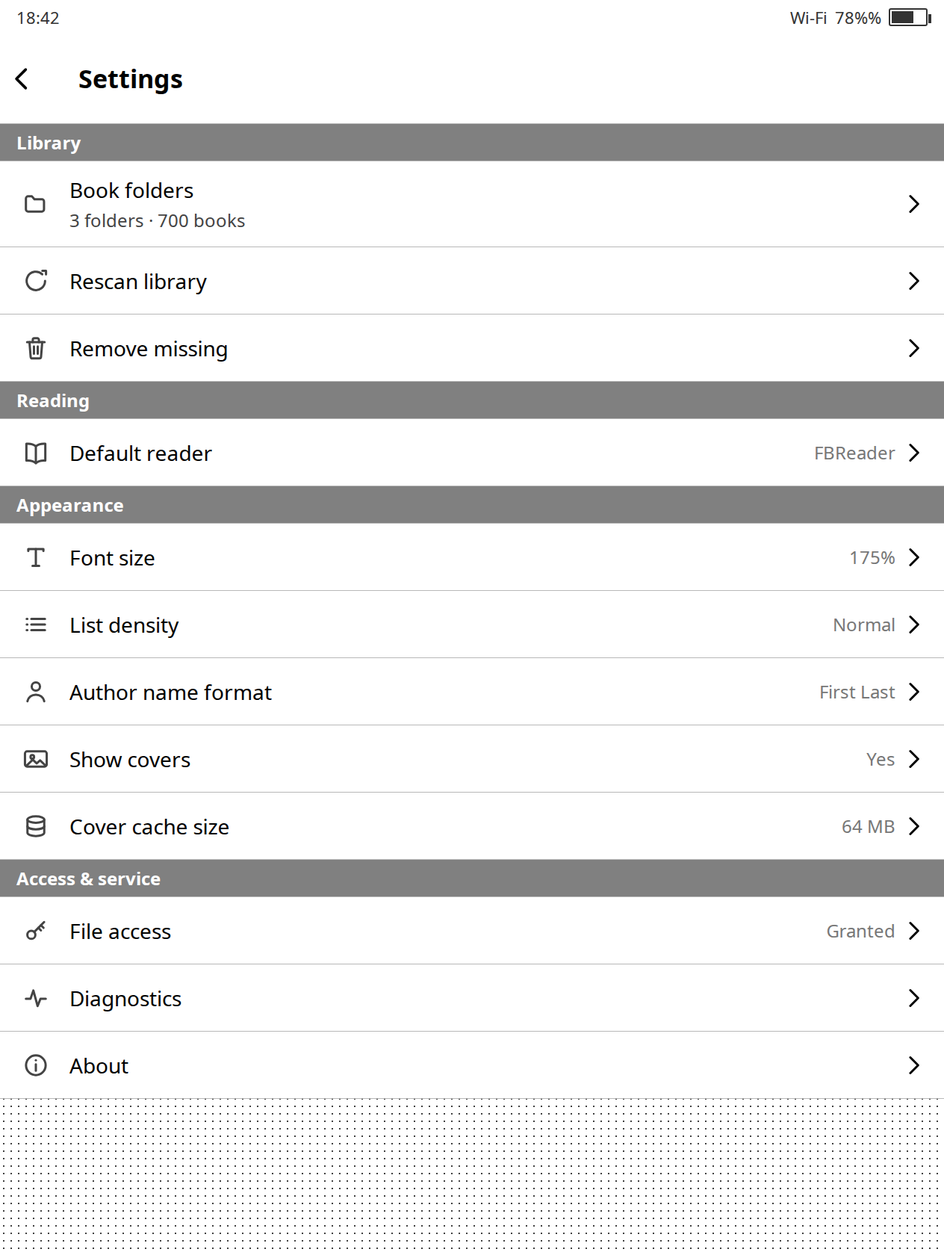
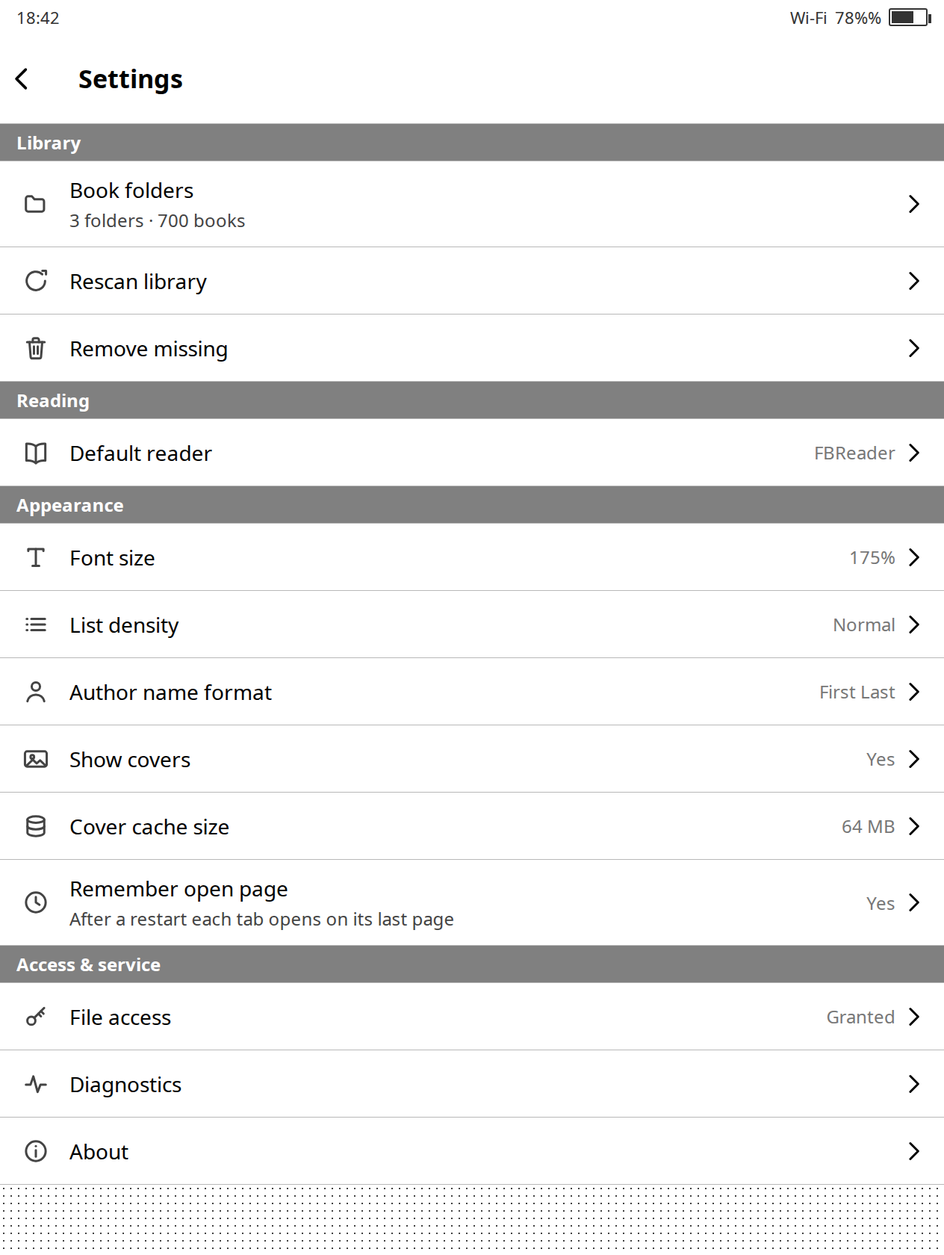
Настройки S4.8 «Запоминать открытую страницу»: страницы вкладок между перезапусками (бэклог №15)
- Prefs: K_REMEMBER_PAGE (по умолчанию Да), K_TAB_PAGES — CSV страниц по
  индексу вкладки; tabPage/setTabPage/clearTabPages
- MainActivity: onCreate читает сохранённые страницы (если опция включена) и
  открывает rememberedPage(mTab); setPage пишет страницу в Prefs при
  включённой опции; при выключенной — только память сессии (№14)
- SettingsActivity: строка в «Оформлении» (иконка history, sub-пояснение,
  значение Да/Нет) + диалог; выключение очищает K_TAB_PAGES
- нумерация строк S4 сдвинута: рескан S4.9, очистка S4.10, доступ S4.11,
  диагностика S4.12, «О программе» S4.13 (комментарии + PLAN.md)
- gen.py: строки setting_remember_page(_sub) RU/EN, макет 12 + sub в setting()
- PLAN.md §6.7: настройка распространяет память страницы на перезапуск
- Вкладка между перезапусками помнилась и раньше (Prefs.K_TAB) — проверено

Changed region(s): [[0.0, 0.681, 1.0, 0.9286], [0.9565, 0.8357, 0.9873, 0.8667]]

diff --git a/app/src/ru/unclerus/library/ui/SettingsActivity.java b/app/src/ru/unclerus/library/ui/SettingsActivity.java
@@ -44,9 +44,9 @@ import ru.unclerus.library.util.Prefs;
  *   <li>S4.1 «Папки с книгами» — открывает отдельный экран S9 ({@link RootsActivity});</li>
  *   <li>S4.2 читалка по умолчанию — список читалок ({@link OpenWithDialog});</li>
  *   <li>S4.3 размер шрифта, S4.4 плотность, S4.5 формат имени автора, S4.6 обложки,
- *       S4.7 размер кэша — мгновенные настройки;</li>
- *   <li>S4.8 рескан, S4.9 очистка отсутствующих, S4.10 доступ к файлам,
- *       S4.11 диагностика, S4.12 «О программе».</li>
+ *       S4.7 размер кэша, S4.8 запоминание открытой страницы — мгновенные настройки;</li>
+ *   <li>S4.9 рескан, S4.10 очистка отсутствующих, S4.11 доступ к файлам,
+ *       S4.12 диагностика, S4.13 «О программе».</li>
  * </ul>
  *
  * <p>Масштаб шрифта применяется базовым {@link ThemedActivity}: при смене экран
@@ -66,6 +66,7 @@ public final class SettingsActivity extends ThemedActivity {
     private static final int A_CACHE = 10;
     private static final int A_DIAGNOSTICS = 11;
     private static final int A_ABOUT = 12;
+    private static final int A_REMEMBER_PAGE = 13;
 
     private static final int REQ_STORAGE = 1;
     private static final int REQ_SAF_TREE = 2;
@@ -145,6 +146,10 @@ public final class SettingsActivity extends ThemedActivity {
         addRow(R.drawable.ic_database, getString(R.string.setting_cover_cache), null,
                 getString(R.string.value_mb, String.valueOf(App.prefs().coverCacheMb())),
                 A_CACHE);
+        addRow(R.drawable.ic_history, getString(R.string.setting_remember_page),
+                getString(R.string.setting_remember_page_sub),
+                getString(App.prefs().rememberPage() ? R.string.value_yes : R.string.value_no),
+                A_REMEMBER_PAGE);
 
         addSection(R.string.section_access_service);
         addRow(R.drawable.ic_key, getString(R.string.setting_file_access), null,
@@ -237,6 +242,9 @@ public final class SettingsActivity extends ThemedActivity {
             case A_CACHE:
                 showCacheDialog();
                 break;
+            case A_REMEMBER_PAGE:
+                showRememberPageDialog();
+                break;
             case A_ACCESS:
                 if (FileAccess.hasAllFiles(this)) {
                     Toast.makeText(this, R.string.access_granted, Toast.LENGTH_SHORT).show();
@@ -255,7 +263,7 @@ public final class SettingsActivity extends ThemedActivity {
         }
     }
 
-    /** S4.8: запустить общий рескан и вернуться в список — прогресс покажет S1. */
+    /** S4.9: запустить общий рескан и вернуться в список — прогресс покажет S1. */
     private void startScan() {
         startService(new Intent(this, IndexerService.class).setAction(IndexerService.ACTION_START));
         Toast.makeText(this, R.string.toast_scan_started, Toast.LENGTH_SHORT).show();
@@ -263,7 +271,7 @@ public final class SettingsActivity extends ThemedActivity {
     }
 
     /**
-     * S4.9 «Очистить отсутствующие» (D4): показать, что именно будет удалено,
+     * S4.10 «Очистить отсутствующие» (D4): показать, что именно будет удалено,
      * и по подтверждению удалить книги с пропавшими файлами и «сиротские»
      * классификаторы. Файлы на диске не трогаются.
      */
@@ -455,6 +463,33 @@ public final class SettingsActivity extends ThemedActivity {
                 }));
     }
 
+    /**
+     * S4.8: запоминать ли открытую страницу вкладок между перезапусками
+     * (BACKLOG №15). При выключении сохранённые страницы выбрасываются —
+     * память остаётся только в рамках текущей сессии (№14).
+     */
+    private void showRememberPageDialog() {
+        final String[] items = {
+                getString(R.string.value_yes),
+                getString(R.string.value_no),
+        };
+        int checked = App.prefs().rememberPage() ? 0 : 1;
+        Dialogs.show(new AlertDialog.Builder(this, R.style.AppTheme_Dialog)
+                .setTitle(R.string.setting_remember_page)
+                .setSingleChoiceItems(items, checked, new DialogInterface.OnClickListener() {
+                    @Override
+                    public void onClick(DialogInterface d, int which) {
+                        boolean on = which == 0;
+                        App.prefs().setRememberPage(on);
+                        if (!on) {
+                            App.prefs().clearTabPages();
+                        }
+                        d.dismiss();
+                        buildRows();
+                    }
+                }));
+    }
+
     /** S4.7: размер дискового кэша обложек; после смены LRU подрезается. */
     private void showCacheDialog() {
         final String[] items = new String[CACHE_MB.length];
@@ -527,7 +562,7 @@ public final class SettingsActivity extends ThemedActivity {
     }
 
     // ------------------------------------------------------------------
-    // Доступ к файлам (S4.10)
+    // Доступ к файлам (S4.11)
     // ------------------------------------------------------------------
 
     private boolean hasAllFiles() {
@@ -538,7 +573,7 @@ public final class SettingsActivity extends ThemedActivity {
         FileAccess.requestManage(this, REQ_STORAGE);
     }
 
-    /** D2 «Доступ к файлам» (тап по строке S4.10). */
+    /** D2 «Доступ к файлам» (тап по строке S4.11). */
     private void showAccessDialog() {
         AccessPrompt.show(this, new AccessPrompt.Actions() {
             @Override

diff --git a/app/src/ru/unclerus/library/util/Prefs.java b/app/src/ru/unclerus/library/util/Prefs.java
@@ -23,6 +23,10 @@ public final class Prefs {
     public static final String K_SCHEMA_SEEN = "schema_seen";      // int
     /** Последняя открытая вкладка главного экрана (S1); -1 — ещё не запоминалась. */
     public static final String K_TAB = "main_tab";                 // int
+    /** Запоминать открытую страницу вкладки между перезапусками (S4.8). */
+    public static final String K_REMEMBER_PAGE = "remember_page";  // boolean
+    /** Страницы вкладок S1 между запусками: CSV int по индексу вкладки (S4.8). */
+    public static final String K_TAB_PAGES = "main_tab_pages";     // String "3,1,5,..."
     // Контексты режима сортировки (значение — BookDao.SORT_*):
     public static final String K_SORT_BOOKS = "sort_all_books";    // S1.6 «Все книги»
     public static final String K_SORT_GENRE = "sort_genre";        // S2, книги жанра
@@ -158,5 +162,75 @@ public final class Prefs {
 
     public void setTab(int idx) {
         mSp.edit().putInt(K_TAB, idx).apply();
+    }
+
+    // --- страницы вкладок между перезапусками (S4.8) ---
+    /**
+     * Сохранять ли открытую страницу каждой вкладки между запусками (настройка
+     * S4.8). По умолчанию включено: позиция списка помнится и в рамках сессии
+     * (BACKLOG №14), и между перезапусками (№15); выключение оставляет память
+     * сессии и очищает сохранённые страницы.
+     */
+    public boolean rememberPage() {
+        return mSp.getBoolean(K_REMEMBER_PAGE, true);
+    }
+
+    public void setRememberPage(boolean v) {
+        mSp.edit().putBoolean(K_REMEMBER_PAGE, v).apply();
+    }
+
+    /** Сохранённая страница вкладки {@code idx}; 0 — вкладка ещё не запоминалась. */
+    public int tabPage(int idx) {
+        if (idx < 0) {
+            return 0;
+        }
+        String[] parts = pageParts();
+        if (idx >= parts.length) {
+            return 0;
+        }
+        try {
+            return Integer.parseInt(parts[idx]);
+        } catch (NumberFormatException e) {
+            return 0; // испорченное значение читаем как «не запоминалось»
+        }
+    }
+
+    /** Записать страницу {@code page} (0 — «не листали») для вкладки {@code idx}. */
+    public void setTabPage(int idx, int page) {
+        if (idx < 0) {
+            return;
+        }
+        String[] parts = pageParts();
+        if (idx >= parts.length) {
+            String[] grown = new String[idx + 1];
+            System.arraycopy(parts, 0, grown, 0, parts.length);
+            for (int i = parts.length; i <= idx; i++) {
+                grown[i] = "0";
+            }
+            parts = grown;
+        }
+        parts[idx] = String.valueOf(Math.max(0, page));
+        StringBuilder sb = new StringBuilder();
+        for (String p : parts) {
+            if (sb.length() > 0) {
+                sb.append(',');
+            }
+            sb.append(p);
+        }
+        mSp.edit().putString(K_TAB_PAGES, sb.toString()).apply();
+    }
+
+    /** Забыть сохранённые страницы — при выключении настройки S4.8. */
+    public void clearTabPages() {
+        mSp.edit().remove(K_TAB_PAGES).apply();
+    }
+
+    /** Разобранный CSV страниц; пустое значение — пустой список. */
+    private String[] pageParts() {
+        String raw = mSp.getString(K_TAB_PAGES, "");
+        if (raw == null || raw.isEmpty()) {
+            return new String[0];
+        }
+        return raw.split(",");
     }
 }

diff --git a/app/src/ru/unclerus/library/ui/MainActivity.java b/app/src/ru/unclerus/library/ui/MainActivity.java
@@ -131,7 +131,9 @@ public final class MainActivity extends ThemedActivity implements ProgressBus.Li
     /**
      * Последняя страница каждой вкладки (BACKLOG №14): переключение вкладок не
      * должно сбрасывать позицию списка. Запоминается только в режиме вкладки —
-     * страницы поиска (он один на все вкладки) здесь не пишутся.
+     * страницы поиска (он один на все вкладки) здесь не пишутся. При включённой
+     * настройке S4.8 те же значения пишутся в {@link Prefs} и переживают
+     * перезапуск ({@link #onCreate}).
      */
     private final int[] mPageByTab = new int[TAB_LABELS.length];
     private int mAction = ACTION_NONE;
@@ -170,6 +172,20 @@ public final class MainActivity extends ThemedActivity implements ProgressBus.Li
         if (savedTab >= 0 && savedTab < TAB_LABELS.length) {
             mTab = savedTab;
         }
+
+        // Страницы вкладок между запусками (S4.8, BACKLOG №15): читаем, только
+        // если настройка включена — иначе помним их в рамках этой сессии (№14).
+        if (App.prefs().rememberPage()) {
+            for (int i = 0; i < mPageByTab.length; i++) {
+                int savedPage = App.prefs().tabPage(i);
+                if (savedPage > 1) {
+                    mPageByTab[i] = savedPage;
+                }
+            }
+        }
+        // Стартовая страница — запомненная для восстановленной вкладки (№14/№15),
+        // иначе первая; renderPage.clamp подрежет её под актуальный число страниц.
+        mPage = rememberedPage(mTab);
 
         mTabs = findViewById(R.id.tabs);
         mTabBar = findViewById(R.id.tab_bar);
@@ -669,12 +685,18 @@ public final class MainActivity extends ThemedActivity implements ProgressBus.Li
     /**
      * Перейти на страницу {@code page} и запомнить её за текущей вкладкой
      * (BACKLOG №14). В режиме поиска не запоминаем: {@link #mPage} тогда
-     * относится к результатам поиска, а не к списку вкладки.
+     * относится к результатам поиска, а не к списку вкладки. При включённой
+     * настройке S4.8 то же значение уходит в {@link Prefs} и переживает
+     * перезапуск (BACKLOG №15).
      */
     private void setPage(int page) {
         mPage = page;
-        if (!searching()) {
-            mPageByTab[mTab] = page;
+        if (searching()) {
+            return;
+        }
+        mPageByTab[mTab] = page;
+        if (App.prefs().rememberPage()) {
+            App.prefs().setTabPage(mTab, page);
         }
     }
 

diff --git a/design/gen.py b/design/gen.py
@@ -271,6 +271,11 @@ S_ = {
     'author_last':     ('author_format_last_first', 'Фамилия Имя', 'Last First'),
     'set_covers':      ('setting_show_covers', 'Показывать обложки', 'Show covers'),
     'set_cache':       ('setting_cover_cache', 'Размер кэша обложек', 'Cover cache size'),
+    'set_remember_page': ('setting_remember_page', 'Запоминать открытую страницу',
+                          'Remember open page'),
+    'remember_page_sub': ('setting_remember_page_sub',
+                          'После перезапуска каждая вкладка откроется на своей последней странице',
+                          'After a restart each tab opens on its last page'),
     'set_access':      ('setting_file_access', 'Доступ к файлам', 'File access'),
     'access_granted':  ('access_granted', 'Разрешён', 'Granted'),
     'access_denied':   ('access_denied', 'Не разрешён', 'Not granted'),
@@ -803,13 +808,14 @@ def letter_head(ch):
     return '<div class="letter">%s</div>' % esc(ch)
 
 
-def setting(ico, title, value='', chev=True):
-    """Строка настройки: иконка + название + текущее значение + шеврон."""
+def setting(ico, title, value='', chev=True, sub=None):
+    """Строка настройки: иконка + название (+ подстрока) + текущее значение + шеврон."""
     lead = '<div class="lead">%s</div>' % svg_icon(ico, dp(20), C['icon'])
     v = ('<div class="name" style="color:#777;font-size:24px">%s</div>' % esc(value)) if value else ''
     c = CHEV if chev else ''
-    return ('<div class="row">%s<div class="grow"><div class="name">%s</div></div>%s%s</div>'
-            % (lead, esc(title), v, c))
+    subh = '<div class="sub">%s</div>' % esc(sub) if sub else ''
+    return ('<div class="row">%s<div class="grow"><div class="name">%s</div>%s</div>%s%s</div>'
+            % (lead, esc(title), subh, v, c))
 
 
 def banner(text, warn=False, chev=False):
@@ -1244,6 +1250,8 @@ def s12_settings():
             setting('authors', tr('set_author_fmt'), tr('author_first')) +
             setting('image', tr('set_covers'), tr('yes')) +
             setting('database', tr('set_cache'), '64 МБ' if LANG == 'ru' else '64 MB') +
+            setting('history', tr('set_remember_page'), tr('yes'),
+                    sub=tr('remember_page_sub')) +
             sect(tr('sec_system')) +
             setting('key', tr('set_access'), tr('access_granted')) +
             setting('activity', tr('set_diagnostics')) +

diff --git a/BACKLOG.md b/BACKLOG.md
@@ -20,6 +20,8 @@
 | 13 | 2026-11-02 | Списки/пагинация | **Под списком остаётся пустое место ровно ещё на одну строку** (заметно на «Жанрах» и «Сериях», но общее для всех вкладок). Замер на устройстве: область списка 1174px, строка 105px, разделитель 2px → на страницу клалось 10 строк (1068px, пустые 106px), а 11 строк требуют 1175px — ровно на 1px больше области. Формула запаса из №4 округлялась вниз и теряла целую строку на каждой странице. | `ui/ListMetrics.java` (`perPage`), `ui/PagePlan.java` (`grouped`: бюджет и ветка без разделов) | **закрыт (2026-11-02)**: введён `ListMetrics.LAST_ROW_SLACK = 1` — бюджет страницы стал `viewport + divider + 1px` (и в `perPage`, и в `grouped`). Лишний пиксель снимается с нижней padding-зоны последней строки (`ListView` обрезает её до границы области), текст и иконки не затрагиваются — проверено экспериментальной сборкой: 11-я строка выходила ровно `[1371,1475]` без зазора. После правки: «Жанры» и «Серии» — 11 строк, зазор 0; «Авторы» — 8 элементов + 5 заголовков, зазор 25px (следующая строка стоит 107px, влезть не может). Проверено на устройстве (оператор): всё ок, в том числе в поиске |
 | 14 | 2026-11-18 | Списки/пагинация | **При переключении вкладок сбрасывается состояние вкладки: страница всегда первая.** Пример оператора: пролистать «Авторов» на пятую страницу, перейти на «Жанры», вернуться на «Авторы» — снова первая страница. Причина: `showTab()` безусловно ставил `mPage = 1`, страница нигде не запоминалась (в отличие от самой активной вкладки, которая живёт в `Prefs`). | `ui/MainActivity.java` — `showTab()`, `goPage()`, `swipePage()`, `jumpToSection()`, `onSearchChanged()`, диалог сортировки, клампы в `renderPage()` | **закрыт (2026-11-18)**: поле `mPageByTab[TAB_LABELS.length]` + методы `rememberedPage(idx)` (запомненная страница вкладки, иначе 1) и `setPage(page)` (присваивает `mPage` и, если это не режим поиска, пишет страницу за текущей вкладкой). Все точки смены страницы переведены на `setPage`; `showTab()` вместо `mPage = 1` восстанавливает `rememberedPage(idx)`; `onSearchChanged()` при входе в поиск ставит 1 и не пишет в память (там страница относится к результатам), при выходе — возвращает запомненную; диалог сортировки и кламп в `renderPage()` сбрасывают на 1 осознанно (состав страниц изменился). Память — в рамках сессии, между запусками не сохраняется. Проверено на устройстве: «Авторы» 5-я страница → «Жанры» → «Серии» → «Авторы» снова на 5-й; «Жанры» после 2×«вперёд» сохраняются при возврате; поиск с 5-й страницы и выход крестиком возвращают ту же страницу; крашей нет |
 
+| 15 | 2026-11-18 | Настройки/состояние | **Запрос оператора: страницы вкладок должны переживать перезапуск.** Сама позиция списка помнится только в рамках сессии (№14): `force-stop`/перезапуск возвращает на первую страницу. Уточнено по ходу работы: **вкладка** между перезапусками уже помнится (`Prefs.K_TAB`, читается в `MainActivity.onCreate`) — это было и раньше, отдельной опции не требует. | `util/Prefs.java` (ключи + `rememberPage`/`tabPage`/`setTabPage`/`clearTabPages`), `ui/MainActivity.java` (`onCreate`, `setPage`), `ui/SettingsActivity.java` (строка + диалог), `design/gen.py` (строки + макет 12) | **закрыт (2026-11-18)**: настройка **S4.8 «Запоминать открытую страницу»** (Да/Нет, **по умолчанию Да**; sub-строка «После перезапуска каждая вкладка откроется на своей последней странице»), значение — `Prefs.K_REMEMBER_PAGE`, сами страницы — CSV `Prefs.K_TAB_PAGES` по индексу вкладки. `setPage()` при включённой опции пишет страницу в `Prefs`, `onCreate()` при включённой читает их в `mPageByTab` и открывает `rememberedPage(mTab)`; при выключении сохранённые страницы очищаются (`clearTabPages`), остаётся память сессии. Нумерация строк S4 сдвинута: рескан S4.9, очистка S4.10, доступ S4.11, диагностика S4.12, «О программе» S4.13 (обновлено в коде и `PLAN.md`). Проверено на устройстве: «Авторы» 5-я + «Жанры» 3-я → `force-stop` → старт на «Жанрах» `23–33 из 69`, «Авторы» `37–45 из 246`; опция «Нет» → после перезапуска `1–11` (вкладка та же), опция «Да» → `12–22 из 69` возвращается; крашей нет |
+
 ---
 
 Запись №1 заведена по указанию оператора: не править немедленно.
